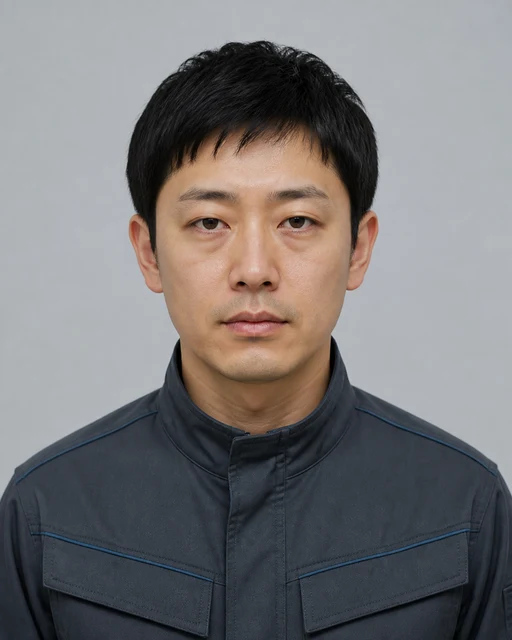
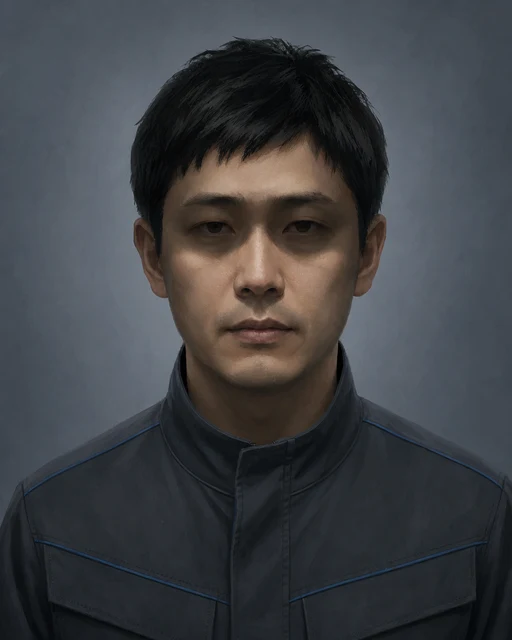
art: restyle protagonist staff portrait

diff --git a/artwork/generation-log.md b/artwork/generation-log.md
@@ -2,16 +2,34 @@
 
 ## GFX-ITEM-003 主人公の職員証写真
 
-- 生成日: 2026-08-11
+- 初回生成日: 2026-08-11
+- 現行版更新日: 2026-08-12
 - 用途: 職員用アクセスカード、VOICE ANALYSISの本人照合
-- provider / mode: OpenAI built-in `image_gen`、承認済みGFX-REF-001 cinematic v6を美術方向参照とした新規生成
+- provider / mode: OpenAI built-in `image_gen`。旧承認写真を編集対象とした`style-transfer`
 - model / model version / seed: built-in toolから非公開
 - 人物設定: 32歳前後の日本人男性。短い黒髪。地下研究施設の設備保守・運用担当。濃灰の高襟作業着。氏名と不要な経歴は設定しない。
-- prompt要旨: 正面、頭肩、平坦な寒色白色光、無地の寒色グレー背景、自然で落ち着いた普通の表情。文字、ロゴ、職員証、記章、道具、劇的な色光、英雄的・美容的演出を禁止。
-- 無加工生成物: built-in toolの保存原本を保持し、作業用copyを`tmp/imagegen/gfx-item-003__source.png`へ配置。
+- 修正方針: 写実的な証明写真から、世界観に合う抑制的なセミリアル2D塗りへ変更。上方の施設照明と眉骨による自然な影で目元の情報量を下げ、黒塗り、目隠し、ホラー表現、強いアニメ記号化を避ける。
+- 無加工生成物: built-in toolの保存原本を保持し、作業用copyを`tmp/imagegen/portrait-revision/generated-source.png`へ配置。旧原本とruntimeも同directoryへ退避した。
 - 承認原本: `items/gfx-item-003/gfx-item-003__approved__portrait-master__1120x1400.png`。生成時の1122×1402から中心を各辺1pxだけcropし、正確な4:5にした。
 - runtime: 同じ承認原本から512×640 WebPを1点書き出し、職員証用と声紋解析用の2 IDから共有する。
-- 目視検収: 単一人物、年齢感、髪型、保守作業着、正面性、crop安全域、無地背景を確認。生成文字、ロゴ、透かし、記章、背景設備、赤／cyanの色光は見られない。
+- 目視検収: 写真の肌・髪の微細質感が残らず、抑制的な2D筆致であることを確認。単一人物、年齢感、髪型、保守作業着、正面性、crop安全域、無地背景を維持し、512×640で目元の影が主に見える。生成文字、ロゴ、透かし、記章、黒い目隠し、背景設備は見られない。
+
+### 現行版prompt
+
+```text
+Use case: style-transfer
+Asset type: in-game institutional staff ID portrait and voiceprint identity-match portrait for ECHO ROOM / 残響室
+Input images: Image 1 is the edit target and the source of truth for the same adult Japanese male character, pose, crop, clothing, and identity.
+Primary request: restyle the portrait from photorealistic ID photography into restrained semi-realistic 2D painted game artwork that matches a grounded cinematic Japanese science-fiction mystery adventure. Make it clearly illustrated rather than a real photograph, but only mildly anime-influenced and still mature and believable.
+Subject: the same Japanese man around age 32, short straight black hair, ordinary calm neutral expression, front-facing head and shoulders, charcoal-gray high-collar facility maintenance jacket with understated blue-gray piping.
+Composition/framing: preserve the exact centered 4:5 institutional portrait composition, head scale, straight posture, direct front view, both shoulders visible, and crop-safe margins.
+Lighting/mood: dim cool overhead facility light. The brow ridge and upper lighting cast a soft natural shadow across both eye sockets so the eyes and irises are difficult to read at a glance, while the nose, lower face, silhouette, and identity remain legible. The shadow must feel photographic/physical within the painted style, not like a black bar, mask, bruise, horror effect, or supernatural darkness.
+Style/medium: polished hand-painted 2D adventure-game character portrait; simplified skin texture, controlled brushwork, subtle cel-like value grouping, restrained line definition, realistic proportions. Between realistic concept art and mature anime, leaning more toward concept art. No glossy pores or camera-photo microdetail.
+Scene/backdrop: plain cool blue-gray institutional background with a subtle vignette, no room details.
+Color palette: charcoal, blue-gray, cool neutral skin tones; low saturation, consistent with a dark industrial research facility.
+Constraints: change the rendering style and eye-region lighting only; preserve the same person, approximate age, facial proportions, hairstyle, expression, jacket design, frontal pose, and 4:5 composition. No text, logo, badge, insignia, watermark, UI, or decorative frame.
+Avoid: photorealism, uncanny hyperreal skin, glamour portrait, beauty retouching, bright catchlights, clearly visible irises, oversized anime eyes, manga line art, cartoon exaggeration, youthful teen appearance, chibi, painterly abstraction, sinister grin, horror, bruising, black censor band, blindfold, face covering, deep black eye holes, cyberpunk neon, red light.
+```
 
 ## GFX-REF-001 美術方向キーフレーム
 
